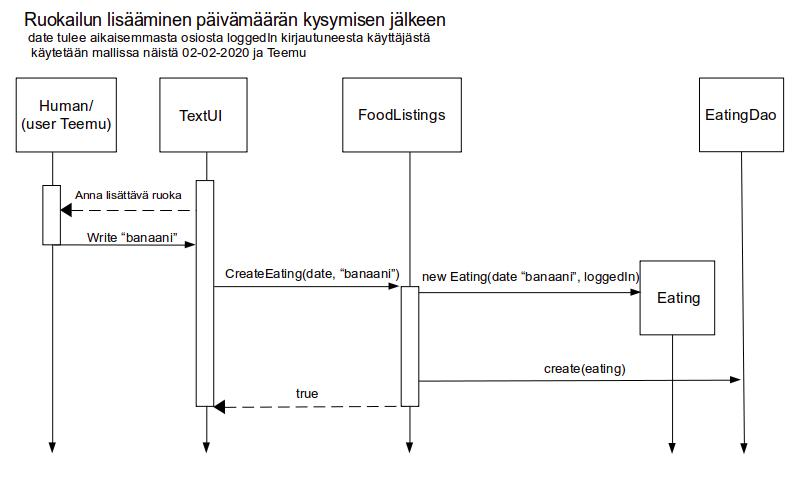
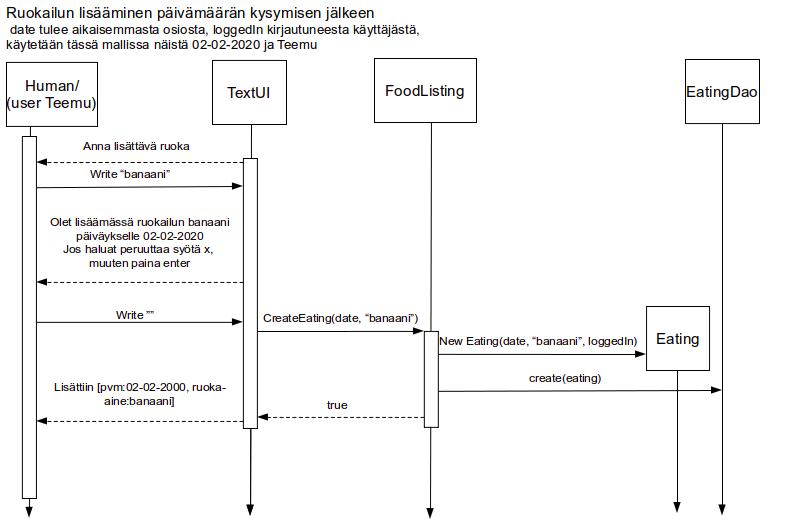
Dokumentaatiota, peruutusmahdollisuus

diff --git a/Helpotus/src/main/java/helpotus/ui/Helpotus.java b/Helpotus/src/main/java/helpotus/ui/Helpotus.java
@@ -2,6 +2,7 @@ package helpotus.ui;
 
 import java.util.*;
 import java.io.FileInputStream;
+import java.io.File;
 import helpotus.domain.FoodListings;
 import helpotus.dao.FileEatingDao;
 import helpotus.dao.FileUserDao;
@@ -15,25 +16,30 @@ public class Helpotus {
      * Main metodi, joka käynnistää koko ohjelman.
      *
      * @param args komentorivin parametrit
-     * @throws java.lang.Exception kun ei pysty lukemaan ohjelmaa
+     * @throws Exception kun ei pysty lukemisessa on ongelma
      */
     public static void main(String[] args) throws Exception {
         System.out.println("Hello user!!!");
 
         Properties properties = new Properties();
-        properties.load(new FileInputStream("config.properties"));
+        File file = new File("config.properties");
+        if (file.exists()) {
+            properties.load(new FileInputStream(file));
+            String userFile = properties.getProperty("userFile");
+            String eatingFile = properties.getProperty("eatingsFile");
 
-        String userFile = properties.getProperty("userFile");
-        String eatingFile = properties.getProperty("eatingsFile");
+            FileUserDao userDao = new FileUserDao(userFile);
+            FileEatingDao eatingDao = new FileEatingDao(eatingFile, userDao);
+            FoodListings foodListing = new FoodListings(eatingDao, userDao);
+            Scanner scanner = new Scanner(System.in);
 
-        FileUserDao userDao = new FileUserDao(userFile);
-        FileEatingDao eatingDao = new FileEatingDao(eatingFile, userDao);
-        FoodListings foodListing = new FoodListings(eatingDao, userDao);
-        Scanner scanner = new Scanner(System.in);
+            TextUI textUi = new TextUI(scanner, foodListing);
+            textUi.start();
 
-        TextUI textUi = new TextUI(scanner, foodListing);
-        textUi.start();
-
-        System.out.println("Kiitos ja tervetuloa uudelleen");
+            System.out.println("Kiitos ja tervetuloa uudelleen");
+        } else {
+            System.out.println("Puuttuu config.properties");
+            System.out.println("Suljetaan ohjelma, luo config.properties ja yritä uudestaan");
+        }
     }
 }

diff --git a/Helpotus/src/main/java/helpotus/ui/TextUI.java b/Helpotus/src/main/java/helpotus/ui/TextUI.java
@@ -67,11 +67,11 @@ public class TextUI {
     public void foodSurvey(User user) throws Exception {
         while (true) {
             System.out.println("");
-            System.out.println("---");
+            System.out.println("---Ruokailut---");
             System.out.println("Syötä käsky");
             System.out.println("(1) Lisää ruokia");
             System.out.println("(2) Tarkasta syömisiä");
-            System.out.println("(x) Poistu");
+            System.out.println("(x) Kirjaudu ulos");
             System.out.print(">> ");
 
             String command = this.userScanner.nextLine();
@@ -86,7 +86,16 @@ public class TextUI {
                 System.out.println("Anna lisättävä ruoka");
                 System.out.print(">> ");
                 String food = userScanner.nextLine();
-                this.foodListing.createEating(date, food);
+                System.out.println("Olet lisäämässä ruokailun " + food + ", päiväykselle " + date);
+                System.out.println("Jos haluat peruuttaa syötä x, muuten paina enter");
+                System.out.print(">> ");
+                String cancel = userScanner.nextLine();
+                if (cancel.equals("x") || cancel.equals("X")) {
+                    System.out.println("Ruokailua ei lisätty");
+                } else {
+                    this.foodListing.createEating(date, food);
+                    System.out.println("Lisättiin [pvm:" + date + ", ruoka-aine:" + food + "]");
+                }
 
             }
             if (command.equals("2")) {
@@ -106,7 +115,7 @@ public class TextUI {
         System.out.println("Tervetuloa Helpotukseen");
         while (true) {
             System.out.println("");
-            System.out.println("---");
+            System.out.println("---Kirjautuminen---");
             System.out.println("Syötä käsky");
             System.out.println("(1) Kirjaudu");
             System.out.println("(2) Luo uusi käyttäjä");

diff --git a/Helpotus/src/test/java/helpotus/domain/DateCheckingTest.java b/Helpotus/src/test/java/helpotus/domain/DateCheckingTest.java
@@ -15,10 +15,12 @@ public class DateCheckingTest {
 
     @Test
     public void noticeNoDigits() {
-        String digit = "1234";
+        String digit = "0123456789";
         String notDigit = "1e34";
+        String noDigits = "=:? +";
         assertTrue(dates.onlyDigits(digit, digit.length()));
         assertFalse(dates.onlyDigits(notDigit, notDigit.length()));
+        assertFalse(dates.onlyDigits(noDigits, noDigits.length()));
     }
 
     @Test

diff --git a/Dokumentaatio/Vaatimusmäärittely_Helpotus.md b/Dokumentaatio/Vaatimusmäärittely_Helpotus.md
@@ -3,23 +3,26 @@
 ## Vaatimusmäärittely
 
 ### Sovelluksen tarkoitus
-Sovellukseen voidaan seurata syömisiä, siihen tallennetaan syömisiä eri päiviltä ja näin voidaan esimerkiksi seurata minkälainen ruokavalio itselle sopii (allergioiden tai ruoka-aineherkkyyksien etsintä) tai seurata ruuankulutustaan.
+Sovellukseen voidaan seurata syömisiä, siihen tallennetaan syömisiä eri päiviltä ja näin voidaan esimerkiksi seurata minkälainen ruokavalio itselle sopii (allergioiden tai ruoka-aineherkkyyksien etsintä) tai vain seurata ruuankulutustaan.
 
 ### Käyttäjät
 Vain peruskäyttäjät
 
 ### Toiminnallisuudet
-- Voi luoda uuden käyttäjän.	
+- Voi luoda uuden käyttäjän.
+    - Ohjelma huomauttaa, jos valitsemasi nimimerkki on jo käytössä.
 - Sisäänkirjautuminen:
-    - Yksilöllisellä nimimerkillä	
-    - Sovellus ilmoittaa, jos nimimerkki on virheellinen eli kyseisellä nimimerkillä ei ole käyttäjää.
+    - Tapahtuu yksilöllisellä nimimerkillä.
+    - Sovellus ilmoittaa, jos nimimerkki on virheellinen, eli kyseisellä nimimerkillä ei ole käyttäjää.
 - Voi olla monta käyttäjää.
 - Voi lisätä syömisiään tietylle päivälle.
+    - Lisäyksen voi peruuttaa tietojen syötön jälkeen.
 - Voi tarkistaa syömisiään tietyltä päivältä.
 
 #### Jatkokehitysideointia
  * Ohjelma voidaan lisätä IBS-oireet tai allergiaoireet tietylle päivälle, jolloin ohjelma etsii yhtäläisyyksiä näiden oireiden syöntijaksoilta, *(allergia: kyseinen päivä, IBS: kahden vuorokauden ajalta)* yhtäläisyyksiä ja näin voi saada apua vältettävien ruokien huomaamiseen.
  * Voi lisätä perhekunnat ja tietyt ateriat suoraan koko perheelle. 
- * Voi merkata jonkin ruuan seurattavaksi, jolloin näkee monestiko sen ruuan jälkeen on ollut allergia- tai IBS-oireita ja monestiko ei.
+ * Voi merkata jonkin ruuan seurattavaksi, jolloin näkee monestiko sen ruuan jälkeen on ollut allergia- tai IBS-oireita ja monestiko ei (tietokanta, voisi toimia paremmin).
  * "Hälytykset" tietyille ruoka-aineille, esim ettei sokeria ole liian usein viikolla ruuassa...
+ * Graafinen käyttöliittymä
 

diff --git a/Dokumentaatio/Käyttöohje.md b/Dokumentaatio/Käyttöohje.md
@@ -25,7 +25,7 @@ Ohjelman käynnistyessä ensin tulevat seuraavat tekstit
 Hello user!!!
 Tervetuloa Helpotukseen
 
----
+---Kirjautuminen---
 Syötä käsky
 (1) Kirjaudu
 (2) Luo uusi käyttäjä
@@ -53,15 +53,15 @@ Uusi käyttäjä "nimimerkki" on nyt luotu
 Avautuu uusi näkymä
 ```
 
----
+---Ruokailut---
 Syötä käsky
 (1) Lisää ruokia
 (2) Tarkasta syömisiä
-(x) Poistu
+(x) Kirjaudu ulos
 >>
 ```
 ### Uuden ruokailun lisääminen
-Uuden ruokailun lisääminen tapahtuu syöttämällä ensin "1", sitten päivämäärän lisättävälle ruokailulle (vuosi yyyy, kuukausi, mm tai m, ja päivä dd tai d) ja lopuksi ruuan.
+Uuden ruokailun lisääminen tapahtuu syöttämällä ensin "1", sitten päivämäärän lisättävälle ruokailulle (vuosi yyyy, kuukausi, mm tai m, ja päivä dd tai d) ja lopuksi ruuan. Ohjelma kysyy vielä haluatko peruuttaa lisäyksen syöttämällä "x", muuten lisäys hyväksytään.
 ```
 >> 1
 Anna lisättävän ruokailun päivämäärä
@@ -74,6 +74,17 @@ Anna vielä päivämäärä
 Annoit päivämäärän 02-02-2000
 Anna lisättävä ruoka
 >> juusto
+Olet lisäämässä ruokailun juusto, päiväykselle 02-02-2000
+Jos haluat peruuttaa syötä x, muuten paina enter
+>> 
+Lisättiin [pvm:02-02-2000, ruoka-aine:juusto]
+
+```
+```
+Olet lisäämässä ruokailun juusto, päiväykselle 02-02-2000
+Jos haluat peruuttaa syötä x, muuten paina enter
+>> x
+Ruokailua ei lisätty
 
 ```
 ### Ruokailujen tarkasteleminen

diff --git a/Dokumentaatio/Testausdokumentti.md b/Dokumentaatio/Testausdokumentti.md
@@ -1,0 +1,37 @@
+# Testausdokumentti
+
+Ohjelmaa on testattu automaattisilla testeillä JUnitilla ja manuaalisesti.
+
+## JUnit
+
+### Sovelluslogiikka
+Automatisoitujen testien 
+
+### DAO-luokat
+temporaryfolders
+
+### Testauskattavuus
+![jacocoTestReport.JPG]...
+testaamatta jääneet
+testaamatta jäivät jos ohjelmalla ei ollut lukuoikeutta 
+missed brances
+[createEatingMissedBranch.JPG]...
+[createUserMissedBranch.JPG]...
+[FileEatingDaoMissedBranch.JPG]...
+[FileUserDaoMissedBranch.JPG]...
+
+missed lines
+[jacocoDaysByMonthLines.JPG]...
+[jacocoDaysLine.JPG]...
+
+## Järjestelmätestaus
+Järjestelmätestaus ohjelmalle on suoritettu manuaalisesti.
+
+### Asennus ja konfigurointi
+Sovellus on testattu asentaa ja ajaa käyttöohjeen mukaisesti ja onnistuu terminaalin kautta hyvin, sekä macilla, että etätyöpöydällä.
+
+### Toiminnallisuudet
+Määrittelydokumentin mukaiset toiminnallisuudet on testattu läpi. Kaikkien niiden kohdalla on syötteiksi yritetty antaa myös virheellisiä syötteitä, kuten tyhjiä tai päiväyksien kohdalla muita kuin numeroita, tai virheellisiä päiviä kuten esim 30 helmikuuta.
+
+## Sovellukseen jääneet laatuongelmat
+ * Jos luku/kirjoitusoikeudet ovat puutteelliset, ei tule järkeviä virheilmoituksia.

diff --git a/README.md b/README.md
@@ -23,7 +23,7 @@ java -jar Helpotus-1.0-SNAPSHOT.jar
 
 ## Helpotus-ruokailulista
 
-Sovellus jolla voidaan seurata syömisiä eri päiviltä. Helpottamaan sopivan ruokavalion löytymistä esim. allergioiden ja ruoka-aineyliherkkyyksien kanssa. 
+Sovellus jolla voidaan seurata syömisiä eri päiviltä. Helpottamaan sopivan ruokavalion löytymistä esim. allergioiden, ruoka-aineyliherkkyyksien ja IBS-oireiden kanssa. 
 
 
 ### Dokumentaatio

diff --git a/Dokumentaatio/Työaikakirjanpito.md b/Dokumentaatio/Työaikakirjanpito.md
@@ -35,5 +35,6 @@
 |   2.5 | 2    | Dokumentaatiota yms. |
 |   4.5 | 3,5  | Dokumentaatiota, uusi luokka-päiväyksiä varten, release. |
 |  11.5 | 6    | Dokumentaatiota, testejä, koodin siistimistä |
+|  13.5 | ++   | Dokumentaatiota, peruutusvaihtoehto lisätty ruokailuihin |
 |   -   | 0    |  |
-|  yht  | 64,5 |  | 
+|  yht  | 64,5++ |  | 
